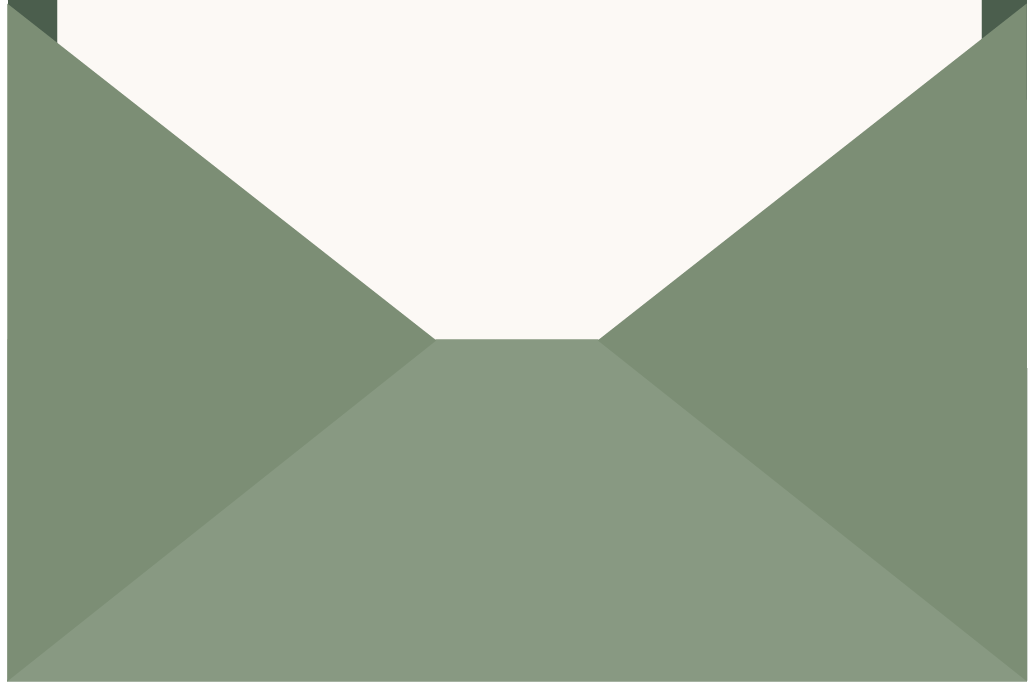
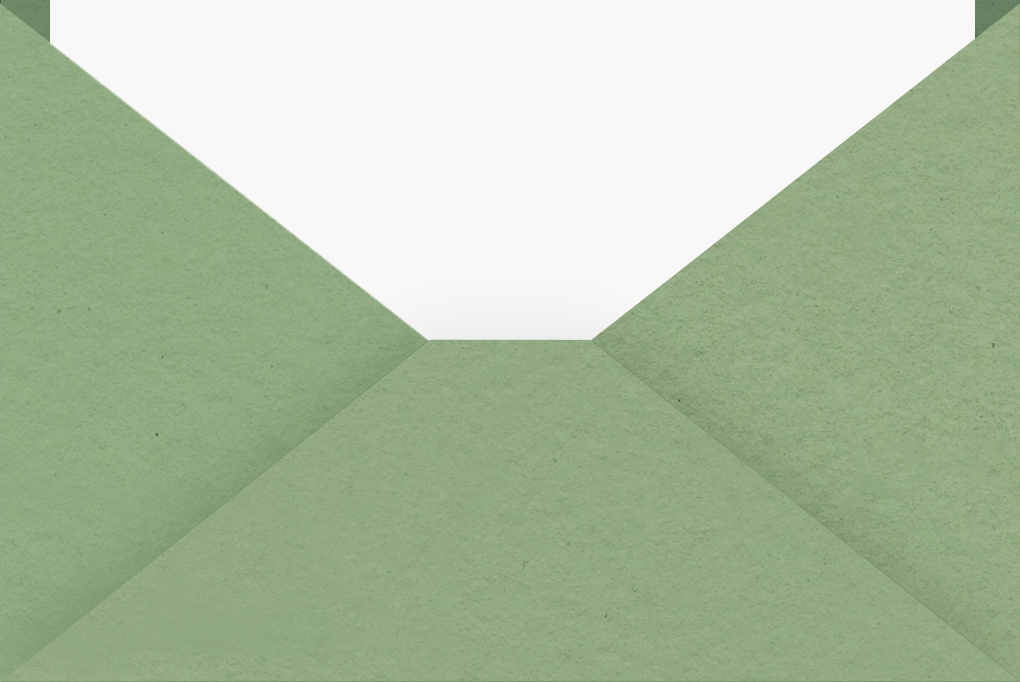
Replace 2D envelope images with textured envelope images. Remove standalone wax seal along with the respective styles

diff --git a/css/styles.css b/css/styles.css
@@ -50,7 +50,7 @@ body {
     top: 0;
     left: 0;
     width: 100%;
-    height: 65%;
+    height: 77%;
     z-index: 3;
     pointer-events: none;
     transition: transform 0.8s ease;
@@ -70,32 +70,6 @@ body {
     z-index: 1;
     pointer-events: none;
 }
-
-.seal {
-    display: block;
-    width: 4.4rem;
-    height: 4.4rem;
-    position: absolute;
-    left: 50%;
-    top: 60%;
-    margin: -2.2rem 0 0 -2.2rem;
-    z-index: 5;
-    transition: transform 0.8s ease, opacity 0.5s ease;
-    transform-origin: 50% -220%;
-}
-
-.seal img {
-    width: 100%;
-    height: 100%;
-    display: block;
-    object-fit: contain;
-}
-
-.envelope.open .seal {
-    transform: rotateX(-180deg);
-    opacity: 0;
-}
-
 
 /* Wedding Website Content */
 .content {
@@ -517,13 +491,6 @@ body {
 
 /* Mobile Responsiveness */
 @media (max-width: 768px) {
-    .seal {
-        width: 25%;
-        height: 25%;
-        left: 50%;
-        top: 64%;
-    }
-
     .envelope {
         width: 300px;
         height: 225px;
@@ -593,13 +560,6 @@ body {
 }
 
 @media (max-width: 480px) {
-    .seal {
-        width: 25%;
-        height: 25%;
-        left: 50%;
-        top: 64%;
-    }
-
     .couple-names {
         font-size: 2rem;
     }

diff --git a/index.html b/index.html
@@ -12,9 +12,6 @@
   <div class="container">
       <div class="envelope" id="envelope">
           <img class="envelope-flap-img" src="images/envelope_top_closed.png" alt="Envelope top flap closed"/>
-          <div class="seal">
-              <img src="images/wax_seal.png" alt="Wax Seal">
-          </div>
           <img class="envelope-bottom-img" src="images/envelope_bottom.png" alt="Envelope bottom"/>
       </div>
   </div>
